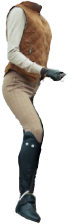
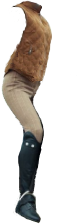
moving the arm

Changed region(s): [[0.0779, 0.0312, 0.8571, 0.375]]

diff --git a/views/demos/seahorse/scene.js b/views/demos/seahorse/scene.js
@@ -300,11 +300,36 @@ scene({
 
         },
 
+        // body
+        {
+
+            id : 'body_arm',
+            w : 77,
+            h : 224,
+            forFrame : function (pt) {
+
+                var pt_hb = this.parts['horse_body'],
+                bias = 1 - Math.abs(.5 - this.percentDone) / .5;
+
+                pt.x = pt_hb.x + 16;
+                pt.y = pt_hb.y - 27 - 10 * bias;
+                pt.radian =  - .1 * bias;
+            },
+
+            skin : {
+                imgIndex : 7,
+                sw : 77,
+                sh : 224,
+                appendRender : function (ctx, skin) {}
+            }
+
+        },
+
         //emme head
         {
 
             id : 'emme_head',
-            w : 70,
+            w : 60,
             h : 70,
             forFrame : function (pt) {
 
@@ -354,7 +379,8 @@ scene.load(
         'demos/seahorse/img/emme_parts.png',
         'demos/seahorse/img/background_3_seamless.png',
         'demos/seahorse/img/body1.png',
-        'demos/seahorse/img/emme_head.png'
+        'demos/seahorse/img/emme_head.png',
+        'demos/seahorse/img/body_arm1.png'
     ],
     function (progress) {
 
